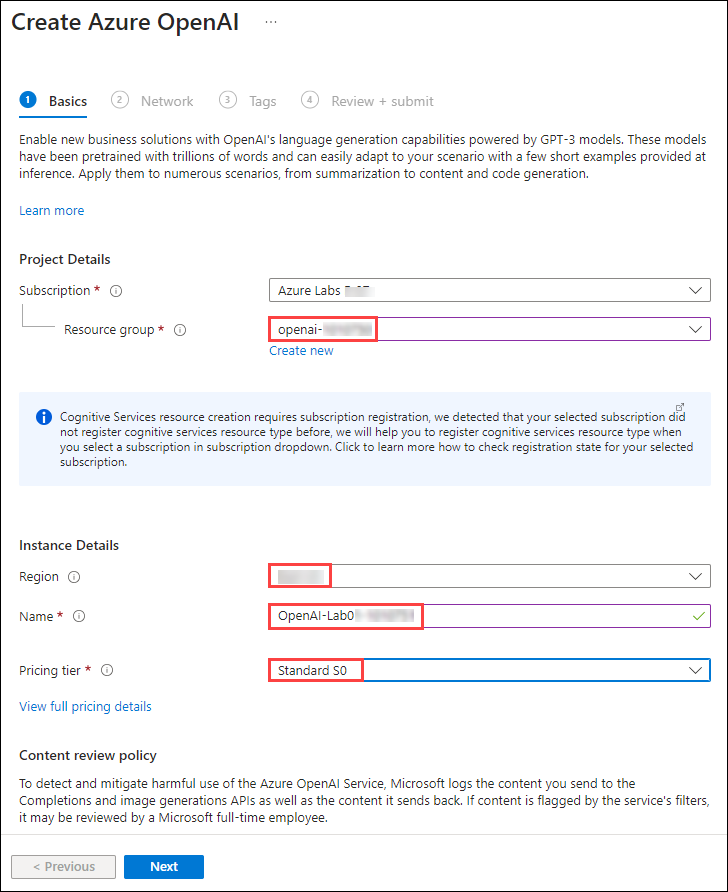
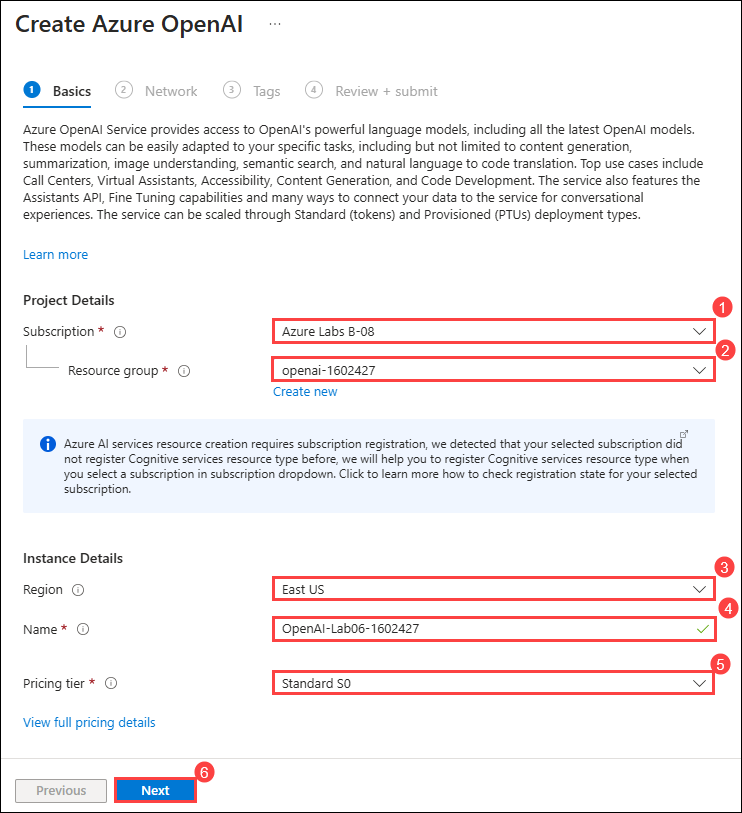
updated

diff --git a/Instructions/Labs/use-your-own-data-and-explore-content-filter-with-azure-openai-services.md b/Instructions/Labs/use-your-own-data-and-explore-content-filter-with-azure-openai-services.md
@@ -21,25 +21,25 @@ In this lab, you will complete the following tasks:
 
 Before you can use Azure OpenAI models, you must provision an Azure OpenAI resource in your Azure subscription.
 
-1. In the **Azure portal**, search for **OpenAI** and select **Azure OpenAI**.
+1. In the **Azure portal**, search for **Azure OpenAI (1)** and select **Azure OpenAI (2)**.
 
    ![](../media/openai8.png)
 
-2. On **Azure OpenAI services | Azure OpenAI** blade, click on **+ Create**.
+2. On **Azure OpenAI services | Azure OpenAI (1)** blade, click on **+ Create (2)**.
 
    ![](../media/openai_create.png)
 
 3. Create an **Azure OpenAI** resource with the following settings:
    
-    - **Subscription**: Default - Pre-assigned subscription.
-    - **Resource group**: openai-<inject key="DeploymentID	" enableCopy="false"></inject>
-    - **Region**: Select <inject key="Region" enableCopy="false" />
-    - **Name**: OpenAI-Lab06-<inject key="DeploymentID	" enableCopy="false"></inject>
-    - **Pricing tier**: Standard S0
+    - **Subscription**: Default - Pre-assigned subscription. **(1)**
+    - **Resource group**: Enter openai-<inject key="DeploymentID	" enableCopy="false"></inject> **(2)**
+    - **Region**: Select <inject key="Region" enableCopy="false" /> **(3)**
+    - **Name**: OpenAI-Lab06-<inject key="DeploymentID	" enableCopy="false"></inject> **(4)**
+    - **Pricing tier**: Standard S0 **(5)**
   
       ![](../media/openai-lab01_01.png "Create Azure OpenAI resource")
     
-4. Click on **Next** thrice and click on **Create**.
+4. Click on **Next (6)** thrice and click on **Create**.
 
 5. Wait for deployment to complete. Then go to the deployed Azure OpenAI resource in the Azure portal.
 
@@ -68,11 +68,11 @@ To chat with the Azure OpenAI, you must first deploy a model to use through the 
 
    ![](../media/openai8.png)
 
-2. On **Azure AI Services | Azure OpenAI** blade, select **OpenAI-Lab06-<inject key="DeploymentID	" enableCopy="false"></inject>**
+2. On **Azure AI Services | Azure OpenAI (1)** blade, select **OpenAI-Lab06-<inject key="DeploymentID	" enableCopy="false"></inject> (2)**
 
    ![](../media/OpenAI_select.png)
 
-3. In the Azure OpenAI resource pane, click on **Go to Azure OpenAI Studio** it will navaigate to **Azure AI Studio**.
+3. In the Azure OpenAI resource pane, click on **Go to Azure AI Foundry Studio** it will navaigate to **Azure AI Foundry Studio**.
 
    ![](../media/gotoresources.png)
 
